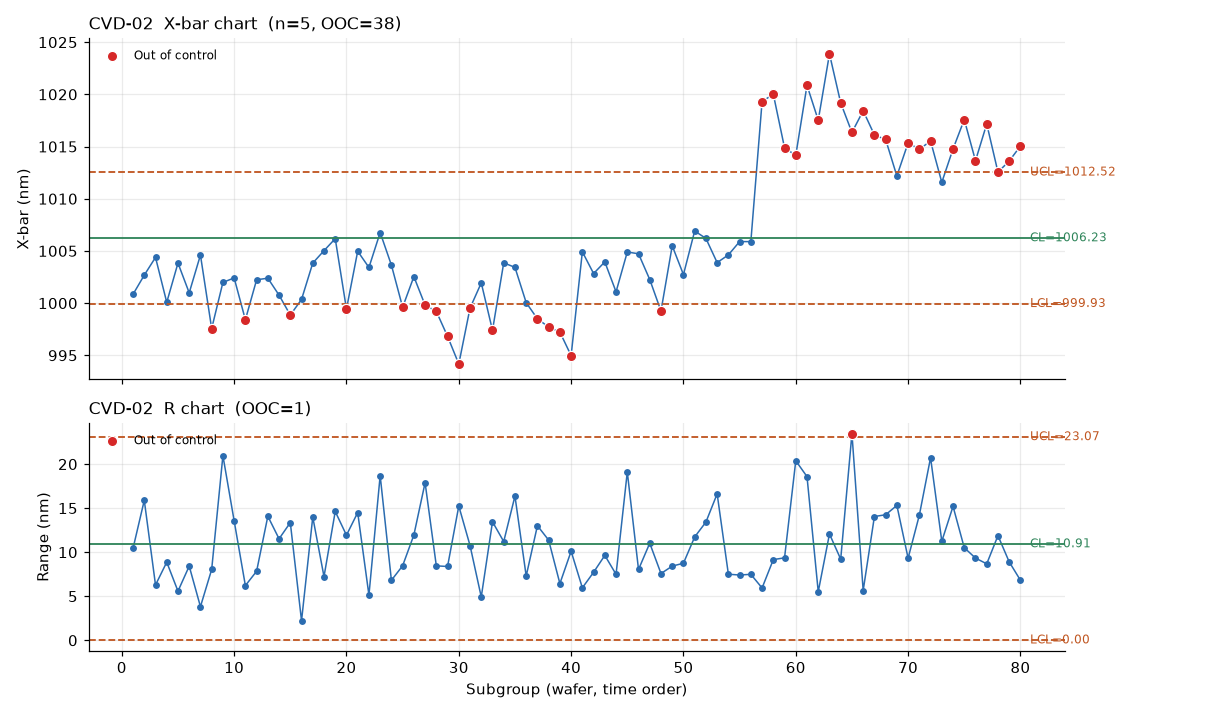
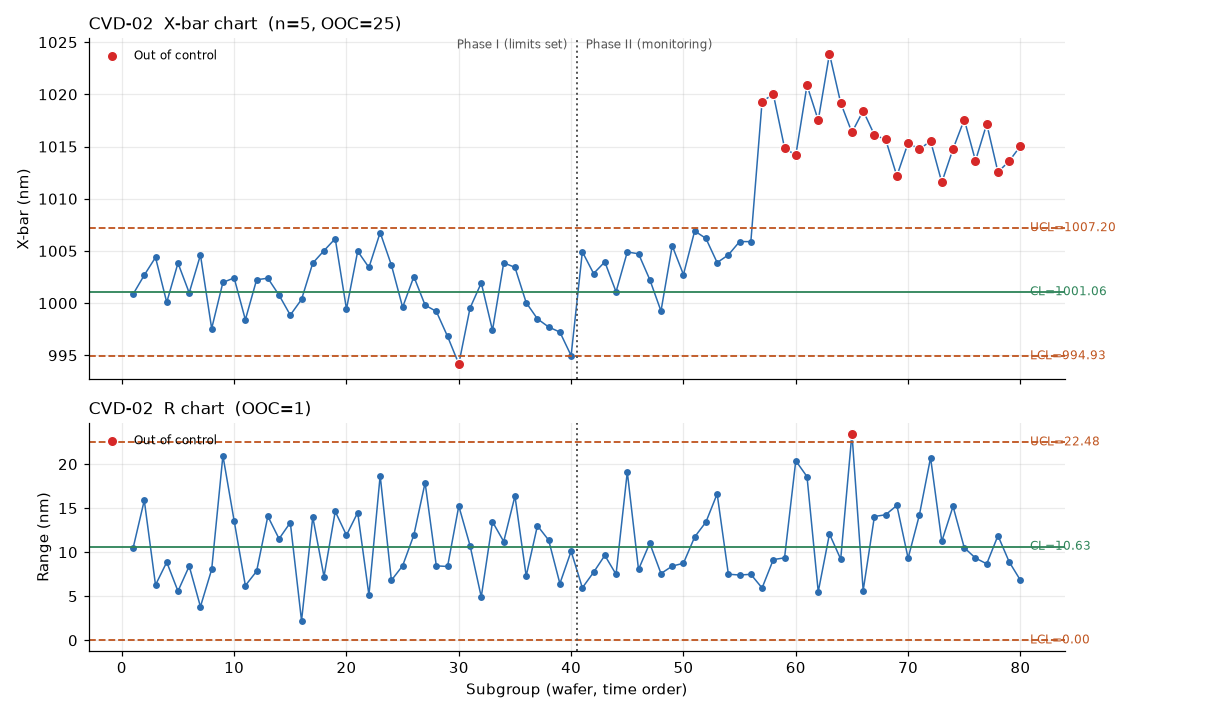
Add Phase I / Phase II control limits with boundary on charts
- Control limits are set from the first N days (default 5, --phase1-days)
- Later subgroups are monitored against the Phase I limits
- Charts show a dotted Phase I/II boundary; report tables include a phase column
- README and example chart updated; tests for phase-based limits

diff --git a/src/spc_report/report.py b/src/spc_report/report.py
@@ -22,7 +22,7 @@ from openpyxl.worksheet.worksheet import Worksheet
 from . import config as C
 from .chart import draw_xbar_r
 from .loader import load_folder
-from .stats import ChartResult, control_charts, equipment_summary, ooc_table
+from .stats import ChartResult, control_charts, equipment_summary, ooc_table, phase1_cutoff
 
 HEADER_FILL = PatternFill("solid", fgColor="1F3A5F")
 HEADER_FONT = Font(bold=True, color="FFFFFF")
@@ -61,11 +61,13 @@ def _autofit(ws: Worksheet, min_width: int = 8, max_width: int = 28) -> None:
 
 
 def _summary_sheet(ws: Worksheet, summary: pd.DataFrame, results: list[ChartResult],
-                   n_files: int) -> None:
+                   n_files: int, phase_note: str) -> None:
     ws["A1"] = "SPC Report - Film Thickness"
     ws["A1"].font = Font(bold=True, size=14)
     ws["A2"] = f"Source files: {n_files}   |   Subgroup: 1 wafer (n={C.SITES_PER_WAFER} sites)"
     ws["A2"].font = Font(italic=True, color="666666")
+    ws["A3"] = phase_note
+    ws["A3"].font = Font(italic=True, color="666666")
 
     ws["A4"] = "1. Equipment summary (all measurements)"
     ws["A4"].font = Font(bold=True)
@@ -77,7 +79,8 @@ def _summary_sheet(ws: Worksheet, summary: pd.DataFrame, results: list[ChartResu
         [
             {
                 "Equipment": r.equipment,
-                "Subgroups": len(r.subgroups),
+                "Phase I SG": int((r.subgroups["phase"] == "I").sum()),
+                "Phase II SG": int((r.subgroups["phase"] == "II").sum()),
                 "X-dbar (CL)": r.limits.xbar_cl,
                 "X UCL": r.limits.xbar_ucl,
                 "X LCL": r.limits.xbar_lcl,
@@ -93,7 +96,7 @@ def _summary_sheet(ws: Worksheet, summary: pd.DataFrame, results: list[ChartResu
     _write_table(ws, limits, start_row=row + 1)
     # highlight non-zero OOC counts
     for i in range(len(limits)):
-        for j in (9, 10):
+        for j in (10, 11):
             c = ws.cell(row=row + 2 + i, column=j)
             if c.value:
                 c.fill, c.font = OOC_FILL, OOC_FONT
@@ -111,9 +114,9 @@ def _chart_sheet(ws: Worksheet, result: ChartResult, img_path: Path) -> None:
 
     table_row = 40  # below the image (~715 px tall)
     s = result.subgroups.rename(columns={C.COL_EQUIP: "equipment"})
-    s = s[["subgroup", C.COL_DATE, C.COL_LOT, C.COL_WAFER, "n", "xbar", "range", "xbar_ooc", "r_ooc"]]
+    s = s[["subgroup", "phase", C.COL_DATE, C.COL_LOT, C.COL_WAFER, "n", "xbar", "range", "xbar_ooc", "r_ooc"]]
     _write_table(ws, s, start_row=table_row)
-    xbar_col, r_col = 6, 7
+    xbar_col, r_col = 7, 8
     for i, rec in enumerate(s.itertuples(index=False), start=1):
         r = table_row + i
         if rec.xbar_ooc or rec.r_ooc:
@@ -128,14 +131,22 @@ def _chart_sheet(ws: Worksheet, result: ChartResult, img_path: Path) -> None:
     ws.column_dimensions["A"].width = 10
 
 
-def build_report(data_dir: Path, out_path: Path) -> dict:
+def build_report(data_dir: Path, out_path: Path,
+                 phase1_days: int | None = C.DEFAULT_PHASE1_DAYS) -> dict:
     data = load_folder(data_dir)
     summary = equipment_summary(data)
-    results = control_charts(data)
+    results = control_charts(data, phase1_days)
+    cutoff = phase1_cutoff(data, phase1_days)
+    if cutoff is None:
+        phase_note = "Control limits: all data (Phase I only)"
+    else:
+        phase_note = (f"Control limits from Phase I = dates before {cutoff:%Y-%m-%d} "
+                      f"(first {phase1_days} days); later data monitored as Phase II")
     ooc = ooc_table(results)
 
     wb = Workbook()
-    _summary_sheet(wb.active, summary, results, n_files=data["source_file"].nunique())
+    _summary_sheet(wb.active, summary, results, n_files=data["source_file"].nunique(),
+                   phase_note=phase_note)
     wb.active.title = "Summary"
 
     with tempfile.TemporaryDirectory() as tmp:

diff --git a/src/spc_report/stats.py b/src/spc_report/stats.py
@@ -82,14 +82,34 @@ def flag_ooc(sub: pd.DataFrame, lim: ControlLimits) -> pd.DataFrame:
     return sub
 
 
-def control_charts(data: pd.DataFrame) -> list[ChartResult]:
-    """One X-bar/R chart per equipment (tools have different means)."""
+def phase1_cutoff(data: pd.DataFrame, phase1_days: int | None) -> pd.Timestamp | None:
+    """First date of Phase II, or None when every row is Phase I."""
+    if not phase1_days or phase1_days <= 0:
+        return None
+    start = pd.Timestamp(data[C.COL_DATE].min()).normalize()
+    cutoff = start + pd.Timedelta(days=phase1_days)
+    return cutoff if data[C.COL_DATE].max() >= cutoff else None
+
+
+def control_charts(data: pd.DataFrame, phase1_days: int | None = C.DEFAULT_PHASE1_DAYS
+                   ) -> list[ChartResult]:
+    """One X-bar/R chart per equipment (tools have different means).
+
+    Phase I  = the first `phase1_days` days: used to set the control limits.
+    Phase II = everything after: monitored against the Phase I limits.
+    phase1_days=None/0 uses all data as Phase I.
+    """
     results = []
     all_sub = make_subgroups(data)
+    cutoff = phase1_cutoff(data, phase1_days)
     for equip, sub in all_sub.groupby(C.COL_EQUIP, sort=True):
         sub = sub.reset_index(drop=True)
-        lim = compute_limits(sub)
+        is_p1 = sub[C.COL_DATE] < cutoff if cutoff is not None else pd.Series(True, index=sub.index)
+        if not is_p1.any():
+            raise ValueError(f"{equip}: no Phase I data in the first {phase1_days} days")
+        lim = compute_limits(sub[is_p1])
         sub = flag_ooc(sub, lim)
+        sub.insert(0, "phase", is_p1.map({True: "I", False: "II"}))
         sub.insert(0, "subgroup", range(1, len(sub) + 1))
         results.append(ChartResult(equipment=str(equip), limits=lim, subgroups=sub))
     return results
@@ -110,7 +130,7 @@ def ooc_table(results: list[ChartResult]) -> pd.DataFrame:
             axis=1,
         )
         frames.append(hit)
-    cols = ["subgroup", C.COL_EQUIP, C.COL_DATE, C.COL_LOT, C.COL_WAFER, "xbar", "range", "reason"]
+    cols = ["subgroup", "phase", C.COL_EQUIP, C.COL_DATE, C.COL_LOT, C.COL_WAFER, "xbar", "range", "reason"]
     if not frames:
         return pd.DataFrame(columns=cols)
     return pd.concat(frames, ignore_index=True)[cols]

diff --git a/tests/test_stats.py b/tests/test_stats.py
@@ -49,3 +49,29 @@ def test_summary_stats():
     assert s.loc["T1", "N"] == 10
     assert s.loc["T1", "Mean"] == pytest.approx(17.0)
     assert s.loc["T1", "Min"] == 10 and s.loc["T1", "Max"] == 24
+
+
+def _two_day_data():
+    """Day 1 (Phase I): wafers 10..14 and 20..24.  Day 2 (Phase II): 100..104."""
+    df = _toy_data()
+    day2 = df[df[C.COL_WAFER] == 1].copy()
+    day2[C.COL_DATE] = pd.Timestamp("2026-11-02")
+    day2[C.COL_WAFER] = 3
+    day2[C.COL_THICK] = day2[C.COL_THICK] + 90  # 100..104
+    return pd.concat([df, day2], ignore_index=True)
+
+
+def test_phase1_limits_ignore_phase2_data():
+    (res,) = control_charts(_two_day_data(), phase1_days=1)
+    s = res.subgroups
+    assert s["phase"].tolist() == ["I", "I", "II"]
+    # limits identical to the day-1-only hand calculation
+    assert res.limits.xbar_cl == pytest.approx(17.0)
+    assert res.limits.xbar_ucl == pytest.approx(17 + 0.577 * 4)
+    assert s.loc[s["phase"] == "II", "xbar_ooc"].all()
+
+
+def test_phase1_days_zero_uses_all_data():
+    (res,) = control_charts(_two_day_data(), phase1_days=0)
+    assert (res.subgroups["phase"] == "I").all()
+    assert res.limits.xbar_cl == pytest.approx((12 + 22 + 102) / 3)

diff --git a/src/spc_report/chart.py b/src/spc_report/chart.py
@@ -45,6 +45,17 @@ def draw_xbar_r(result: ChartResult, out_path: Path) -> Path:
     _panel(ax2, x, s["range"].to_numpy(), s["r_ooc"].to_numpy(),
            lim.r_cl, lim.r_ucl, lim.r_lcl, "Range (nm)", ".2f")
 
+    # Phase I / Phase II boundary (only when both phases exist)
+    if "phase" in s and (s["phase"] == "II").any() and (s["phase"] == "I").any():
+        boundary = s.loc[s["phase"] == "II", "subgroup"].min() - 0.5
+        for ax in (ax1, ax2):
+            ax.axvline(boundary, color="#555555", linestyle=":", linewidth=1.3)
+        top = ax1.get_ylim()[1]
+        ax1.text(boundary - 0.8, top, "Phase I (limits set)", ha="right", va="top", fontsize=8,
+                 color="#555555")
+        ax1.text(boundary + 0.8, top, "Phase II (monitoring)", ha="left", va="top", fontsize=8,
+                 color="#555555")
+
     n_x, n_r = int(s["xbar_ooc"].sum()), int(s["r_ooc"].sum())
     ax1.set_title(f"{result.equipment}  X-bar chart  (n={lim.n}, OOC={n_x})", loc="left", fontsize=11)
     ax2.set_title(f"{result.equipment}  R chart  (OOC={n_r})", loc="left", fontsize=11)

diff --git a/src/spc_report/cli.py b/src/spc_report/cli.py
@@ -28,9 +28,11 @@ def report_main(argv: list[str] | None = None) -> None:
     p = argparse.ArgumentParser(description="Build an SPC Excel report from a folder of Excel files")
     p.add_argument("--in", dest="inp", type=Path, default=C.DEFAULT_DATA_DIR, help="input folder")
     p.add_argument("--out", type=Path, default=C.DEFAULT_REPORT_PATH, help="report .xlsx path")
+    p.add_argument("--phase1-days", type=int, default=C.DEFAULT_PHASE1_DAYS,
+                   help="first N days set the control limits (0 = use all data)")
     a = p.parse_args(argv)
 
-    info = build_report(a.inp, a.out)
+    info = build_report(a.inp, a.out, phase1_days=a.phase1_days)
     print(f"Merged {info['files']} files / {info['rows']} rows, {info['equipment']} tools")
     print(f"Out-of-control subgroups: {info['ooc']}")
     print(f"Report saved: {info['path']}")

diff --git a/src/spc_report/config.py b/src/spc_report/config.py
@@ -17,6 +17,8 @@ DEFAULT_DATA_DIR = Path("data")
 DEFAULT_REPORT_PATH = Path("output") / "spc_report.xlsx"
 
 # ---- Process settings for synthetic data ----
+DEFAULT_PHASE1_DAYS = 5      # first N days set the control limits (Phase I)
+
 TARGET_THICKNESS_NM = 1000.0
 SITES_PER_WAFER = 5          # subgroup size n
 WAFERS_PER_LOT = 25

diff --git a/README.md b/README.md
@@ -11,7 +11,7 @@
 
 ![X-bar–R 관리도 예시 (CVD-02)](docs/images/xbar_r_cvd02.png)
 
-> 위 예시에서 CVD-02는 57번째 서브그룹부터 평균이 +12 nm 이동하도록 데이터를 만들었습니다. 이동 이후의 점들이 UCL 위로 연속해서 나타나 빨간색으로 강조된 것을 볼 수 있습니다.
+> 위 예시에서 CVD-02는 57번째 서브그룹(11/08)부터 평균이 +12 nm 이동하도록 데이터를 만들었습니다. 점선 왼쪽(Phase I, 처음 5일)으로 관리 한계를 정하고, 오른쪽(Phase II)을 그 한계로 감시합니다. 이동 이후의 점들이 UCL 위로 연속해서 나타나 빨간색으로 강조된 것을 볼 수 있습니다.
 
 ## X-bar–R 관리도
 
@@ -20,6 +20,12 @@
 - **R 관리도** (공정 산포 감시): CL = R̄, UCL = D₄·R̄, LCL = D₃·R̄
 - n = 5일 때 사용하는 상수: A₂ = 0.577, D₃ = 0, D₄ = 2.114
 - 장비마다 평균 수준이 달라서 관리 한계는 **장비별로 따로** 계산합니다.
+
+### Phase I / Phase II
+
+- **Phase I** (처음 N일, 기본 5일): 이 구간의 서브그룹으로만 관리 한계를 정합니다.
+- **Phase II** (그 이후): 새로 들어온 데이터를 Phase I에서 정한 한계로 감시합니다.
+- 관리도에는 두 구간의 경계가 점선으로 표시됩니다. `--phase1-days 0`을 주면 전체 데이터로 한계를 계산합니다.
 
 ## 설치
 
@@ -52,6 +58,7 @@ uv run pytest
 | | `--seed` | `42` | 난수 시드 (같은 값이면 같은 데이터가 나옴) |
 | `spc-report` | `--in` | `data` | 측정 엑셀 파일이 있는 폴더 |
 | | `--out` | `output/spc_report.xlsx` | 리포트 파일 경로 |
+| | `--phase1-days` | `5` | 관리 한계를 정할 처음 N일 (0 = 전체 데이터) |
 
 ### 입력 데이터 형식
 
@@ -75,9 +82,9 @@ uv run pytest
 
 | 시트 | 내용 |
 |---|---|
-| `Summary` | 장비별 요약통계(N, 평균, 표준편차, 최소, 최대, 범위)와 관리 한계, 관리 한계를 벗어난 점의 개수 |
-| `XbarR_<장비>` | X-bar–R 관리도 이미지와 서브그룹별 X̄·R 표. 관리 한계를 벗어난 행은 빨간색으로 강조 |
-| `OOC_List` | 관리 한계를 벗어난(OOC) 서브그룹 전체 목록 (장비, 날짜, LOT, 웨이퍼, 원인) |
+| `Summary` | 장비별 요약통계(N, 평균, 표준편차, 최소, 최대, 범위), Phase I 기간, 관리 한계, 구간별 서브그룹 수, 관리 한계를 벗어난 점의 개수 |
+| `XbarR_<장비>` | X-bar–R 관리도 이미지(Phase 경계 표시)와 서브그룹별 Phase·X̄·R 표. 관리 한계를 벗어난 행은 빨간색으로 강조 |
+| `OOC_List` | 관리 한계를 벗어난(OOC) 서브그룹 전체 목록 (Phase, 장비, 날짜, LOT, 웨이퍼, 원인) |
 | `RawData` | 합쳐진 원본 측정 데이터 (어느 파일에서 왔는지 포함) |
 
 ## 프로젝트 구조
@@ -96,5 +103,6 @@ tests/            # pytest
 
 ## 알아둘 점
 
-- 관리 한계는 입력 데이터 **전체**로 계산합니다(Phase I 방식). 그래서 데이터 중간에 평균이 이동하면 CL이 이동 전과 후 사이에 걸리고, 이동 전 구간의 점도 LCL을 벗어날 수 있습니다. 안정 구간으로 한계를 먼저 정한 뒤 새 데이터를 감시하는 기능(Phase II)은 아직 없습니다.
+- Phase I 구간은 날짜 기준으로만 자릅니다. Phase I 안에 이상치가 있어도 그대로 한계 계산에 포함됩니다. 이상치를 빼고 한계를 다시 계산하는 기능은 아직 없습니다.
+- Phase I을 `--phase1-days 0`(전체 데이터)으로 두면, 데이터 중간에 평균이 이동했을 때 CL이 이동 전과 후 사이에 걸려서 정상 구간의 점까지 관리 한계를 벗어난 것으로 잡힐 수 있습니다.
 - X-bar 관리 한계는 웨이퍼 *안의* 산포(R̄)로만 계산합니다. LOT 간 산포가 크면 정상 데이터도 관리 한계를 벗어난 것으로 판정될 수 있습니다.
